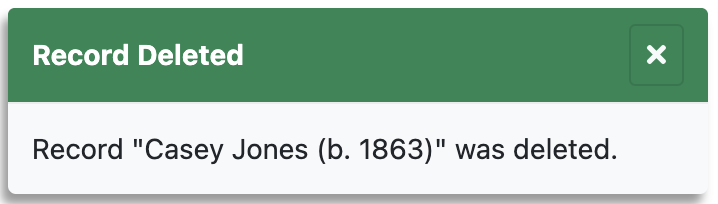
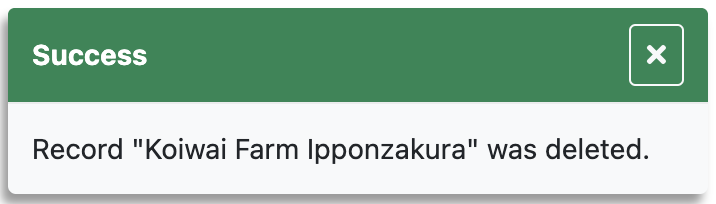
Wrote auth part of tutorial.

diff --git a/en/base.html b/en/base.html
@@ -135,7 +135,7 @@
 
   <script>
     const hhApiDomainArray = ['http://localhost:8081', 'https://hagenhaus.com:3002'];
-    const getHHApiDomain = () => { return hhApiDomainArray[1]; };
+    const getHHApiDomain = () => { return hhApiDomainArray[0]; };
   </script>
 
   <!-- <script src="http://localhost:8080/axios/axios.min.js"></script> -->
@@ -149,9 +149,9 @@
   <!-- <script src="/assets/scripts.js?v=47" type="module"></script> -->
   <script src="/assets/scripts.min.js?v=47" type="module"></script>
   
-  <!-- <script src="http://localhost:8080/hhdatalist/v0.0.2/hhdatalist-palettes.js?v=47"></script>
-  <script src="http://localhost:8080/hhdatalist/v0.0.2/hhdatalist-themes.js?v=47"></script>
-  <script src="http://localhost:8080/hhdatalist/v0.0.2/hhdatalist.js?v=47"></script> -->
+  <!-- <script src="http://localhost:8080/hhdatalist/v0.0.2/hhdatalist-palettes.js?v=47"></script> -->
+  <!-- <script src="http://localhost:8080/hhdatalist/v0.0.2/hhdatalist-themes.js?v=47"></script> -->
+  <!-- <script src="http://localhost:8080/hhdatalist/v0.0.2/hhdatalist.js?v=47"></script> -->
 
   <script src="https://hagenhaus.com/cdn/hhdatalist/v0.0.2/hhdatalist-palettes.js"></script>
   <script src="https://hagenhaus.com/cdn/hhdatalist/v0.0.2/hhdatalist-themes.js"></script>

diff --git a/assets/scripts.js b/assets/scripts.js
@@ -665,9 +665,10 @@ window.deleteAccountListener = (event) => {
 * Local Storage
 ************************************************************************************************/
 
+// null means cancel. '' means no auth token.
 window.getBearerToken = () => {
   let user = localStorage.getItem('user');
-  return user ? `Bearer ${JSON.parse(user).token}` : null;
+  return user ? `Bearer ${JSON.parse(user).token}` : '';
 };
 
 /************************************************************************************************
@@ -760,8 +761,7 @@ function getTitleAndMessage(error) {
 }
 
 window.reportError = (error) => { let tm = getTitleAndMessage(error); showToast('error', tm.title, tm.message); };
-window.reportInfo = (title, detail) => { showToast('info', title, detail); };
-window.reportWarning = (title, detail) => { showToast('warning', title, detail); };
+window.reportInfo = (code, title, detail) => { showToast(code === 0 ? 'info' : 'warning', title, detail); };
 
 /************************************************************************************************
 * on load

diff --git a/assets/dl-options-002.js b/assets/dl-options-002.js
@@ -21,9 +21,9 @@ class DLBaseOptions002 {
     this.id = id;
     this.info = reportInfo;
     this.methods = {
-      deleteRecord: () => { reportWarning('Cannot Delete Record', 'This feature is disabled for this instance.'); },
-      patchRecord: () => { reportWarning('Cannot Modify Record Field', 'This feature is disabled for this instance.'); },
-      postRecord: () => { reportWarning('Cannot Create Record', 'This feature is disabled for this instance.'); }
+      deleteRecord: () => { reportInfo(1, 'Warning', 'Record deletion is disabled for this instance.'); },
+      patchRecord: () => { reportInfo(1, 'Warning', 'Record modification is disabled for this instance.'); },
+      postRecord: () => { reportInfo(1, 'Warning', 'Record creation is disabled for this instance.'); }
     };
     this.number = {};
     this.parity = { get: { value: false }, post: { value: false } };

diff --git a/en/hhdatalist/v0.0.2/tutorial/index.md b/en/hhdatalist/v0.0.2/tutorial/index.md
@@ -406,7 +406,7 @@ Dodger Blue is the name of the default HHDataList theme. It is one of the standa
 
 1. Display the Theme tool again, notice the list of standard themes, and try some.
 
-1. Add the  `themeDefinition` option (Line 2) to hhdatalist.html and save.
+1. Add the `themeDefinition` option (Line 2) to hhdatalist.html and save.
 
     ``` js
     new HHDataList({
@@ -590,11 +590,13 @@ In addition to `manage` field definitions, HHDataList also supports `transform` 
 
 # Add a confirm function
 
-This section helps you add the [confirm](/en/hhdatalist/v0.0.2/options/confirm/) option to your datalist so users can confirm record deletions and other actions before committing.
+If a website provides a `confirm` function via the [confirm](/en/hhdatalist/v0.0.2/options/confirm/) option, HHDataList calls it before performing certain actions such as deleting a record. The signature of a `confirm` function is fixed, but the implementation is up to the website developer. Usually, `confirm` functions ask the user via a modal or dialog whether to proceed with the impending action. This section helps you add the [confirm](/en/hhdatalist/v0.0.2/options/confirm/) option to your datalist so users can confirm record deletions and other actions.
+
+> The `confirm` function used in the tutorial datalist is based on the JS [confirm](https://developer.mozilla.org/en-US/docs/Web/API/Window/confirm) function which displays a dialog. The datalists on hagenhaus.com use a `confirm` function based on Bootstrap modals.
 
 ### Steps
 
-1. Add `myConfirm` and the `confirm` option to hhdatalist.html and save.
+1. Add the `myConfirm` function and the `confirm` option to hhdatalist.html and save.
 
     ``` js nonum
     const myConfirm = (title, detail, yesLabel, yesCb) => { if (confirm(title)) { yesCb(); } };
@@ -604,11 +606,9 @@ This section helps you add the [confirm](/en/hhdatalist/v0.0.2/options/confirm/)
     });
     ```
 
-    `myConfirm` is an example function that works well as the `confirm` function in example applications. HHDataList instances on hagenhaus.com use a different `confirm` function. 
-
 1. Refresh your browser.
 
-1. Attempt to delete a record. HHDataList should display a [Window.confirm](https://developer.mozilla.org/en-US/docs/Web/API/Window/confirm) dialog.
+1. Attempt to delete a record. HHDataList displays a dialog. If you click OK, the tutorial application does not yet display an Unauthorized error message, an omission remedied in the next section.
 
 ### Example
 
@@ -625,11 +625,13 @@ This section helps you add the [confirm](/en/hhdatalist/v0.0.2/options/confirm/)
 
 # Add an error function
 
-This section helps you add the [error](/en/hhdatalist/v0.0.2/options/error/) option to your datalist so HHDataList can inform users about API errors.
+If a website provides an `error` function via the [error](/en/hhdatalist/v0.0.2/options/error/) option, HHDataList calls it to report API errors. The signature of an `error` function is fixed, but the implementation is up to the website developer. Usually, `error` functions report errors to users via modals or alerts. They may also log errors. This section helps you add the [error](/en/hhdatalist/v0.0.2/options/error/) option to your datalist.
+
+> The `error` function used in the tutorial datalist is based on the JS [alert](https://developer.mozilla.org/en-US/docs/Web/API/Window/alert) function which displays a dialog. The datalists on hagenhaus.com use an `error` function based on Bootstrap toasts.
 
 ### Steps
 
-1. Add `myError` and the `error` option to hhdatalist.html and save.
+1. Add the `myError` function and the `error` option to hhdatalist.html and save.
 
     ``` js nonum
     const myError = (error) => {
@@ -643,11 +645,9 @@ This section helps you add the [error](/en/hhdatalist/v0.0.2/options/error/) opt
     });
     ```
 
-    `myError` is an example function that works well as the `error` function in example applications. HHDataList instances on hagenhaus.com use a different `error` function. 
-
 1. Refresh your browser.
 
-1. Attempt again to delete a record, and confirm the deletion. HHDataList should display a [Window.alert](https://developer.mozilla.org/en-US/docs/Web/API/Window/alert) dialog.
+1. Attempt again to delete a record, and confirm the deletion. HHDataList displays an error message.
 
 ### Example
 
@@ -664,25 +664,29 @@ This section helps you add the [error](/en/hhdatalist/v0.0.2/options/error/) opt
 
 # Add an info function
 
-This section helps you add the [info](/en/hhdatalist/v0.0.2/options/info/) option to your datalist so HHDataList can inform users about completed actions.
+If a website provides an `info` function via the [info](/en/hhdatalist/v0.0.2/options/info/) option, HHDataList calls it to report successes and warnings related to certain non-API events. The signature of an `info` function is fixed, but the implementation is up to the website developer. Usually, `info` functions report successes and warnings to users via modals or alerts. This section helps you add the [info](/en/hhdatalist/v0.0.2/options/info/) option to your datalist.
+
+> The `info` function used in the tutorial datalist is based on the JS [alert](https://developer.mozilla.org/en-US/docs/Web/API/Window/alert) function which displays a dialog. The datalists on hagenhaus.com use an `info` function based on Bootstrap toasts.
 
 ### Steps
 
-1. Add `myInfo` and the `info` option to hhdatalist.html and save.
+1. Add the `myInfo` function and the `info` option to hhdatalist.html and save.
 
     ``` js nonum
-    const myInfo = (title, detail) => { alert(detail); };
+    const myInfo = (code, title, detail) => { alert(`${title}: ${detail}`); };
      
     new HHDataList({
       info: myInfo,
     });
     ```
 
-    `myInfo` is an example function that works well as the `info` function in example applications. HHDataList instances on hagenhaus.com use a different `info` function. 
+1. Notice the `code` argument. HHDataList uses `code` to pass `0` for success and `1` for warning. `info` functions can use `code` to make display decisions (e.g. green for success and orange for warning).
 
 1. Refresh your browser.
 
-1. Display the Uniformity tool in the Tools row of your datalist, and click it to enable it. HHDataList should display a [Window.alert](https://developer.mozilla.org/en-US/docs/Web/API/Window/alert) dialog. For more information about the concept of uniformity, see the [uniformity](/en/hhdatalist/v0.0.2/options/uniformity/) option.
+1. Display the Uniformity tool in the Tools row of your datalist.
+
+1. Click it to enable it. HHDataList displays a Success message.
 
 ### Example
 
@@ -705,7 +709,7 @@ HHDataList includes a mechanism for auto-populating the New Record form, a featu
 
 ### Steps
 
-1. Add `popValues` and the `populate` option to hhdatalist.html and save.
+1. Add the `popValues` map and the `populate` option to hhdatalist.html and save.
 
     ``` js nonum
     const popValues = new Map()
@@ -1122,13 +1126,30 @@ new HHDataList({
 
 This section helps you add the [auths](/en/hhdatalist/v0.0.2/options/auths/) option to your datalist so HHDataList can attempt to acquire a token.
 
-### Steps
+An `auth` function can return `null`, a zero-length string, or a non-zero-length string. Each causes HHDataList to react as follows:
 
-1. Add the `myGetToken` and `auths` option to hhdatalist.html and save.
+* A `null` return value causes HHDataList to abort the operation without any message.
+
+* A zero-length string causes HHDataList to abort the operation and to invoke the following function: 
 
     ``` js nonum
-    const myGetToken = () => { return `Bearer ${prompt('Enter auth token', '')}`; };
-    
+    info(1, 'Warning', 'Auth token does not exist.')
+    ```
+
+* A non-zero-length string causes HHDataList to include the string in an Authorization header, and to proceed with the operation.
+
+> The `auth` function used in the tutorial datalist is based on the JS [prompt](https://developer.mozilla.org/en-US/docs/Web/API/Window/prompt) function which displays a dialog. The datalists on hagenhaus.com use an `auth` function that accesses browser Local Storage.
+
+### Steps
+
+1. Add the `myGetToken` function and the `auths` option to hhdatalist.html and save.
+
+    ``` js nonum
+    const myGetToken = () => {
+      let val = prompt('Enter auth token', '');
+      return val ? `Bearer ${val}` : val;
+    };
+     
     new HHDataList({
       auths: {
         deleteRecord: myGetToken,
@@ -1138,11 +1159,27 @@ This section helps you add the [auths](/en/hhdatalist/v0.0.2/options/auths/) opt
     });
     ```
 
+    Regarding `myGetToken`, if the user clicks Cancel, `val` is `null`, so HHDataList quietly aborts the operation. If the user clicks `OK` with no input, `val` is `''`, so HHDataList aborts the operation and calls `info` with a warning. If the user types input and clicks `OK`, `val` is a non-zero-length string, so HHDataList builds an Authorization header and proceeds with the operation. 
+
 1. Refresh your browser.
 
-1. Click the Trash icon of a record.
+1. Click the Trash icon of a record. This dialog appears:
 
-1. Confirm that you want to delete the record. Notice the prompt asking for a token. HHDataList instances on this page supply HHDataList with a different `myGetToken` function, one that (if the user is logged in) retrieves the token from browser Local Store rather than asking for a token via a prompt. 
+    <p><img src="auth-dialog.png" class="img-fluid d-block" width=360 loading="lazy"></p>
+
+1. Click Cancel. Nothing appears.
+
+1. Click a Trash icon, and then click OK. This dialog appears:
+
+    <p><img src="no-auth-token.png" class="img-fluid d-block" width=360 loading="lazy"></p>
+
+1. Click a Trash icon, type input, and then click OK. This dialog appears:
+
+    <p><img src="confirm-delete-record.png" class="img-fluid d-block" width=360 loading="lazy"></p>
+
+1. Click OK. This dialog appears:
+
+    <p><img src="unauthorized.png" class="img-fluid d-block" width=360 loading="lazy"></p>
 
 ### Example
 
@@ -1202,7 +1239,7 @@ This section helps you add the [methods](/en/hhdatalist/v0.0.2/options/methods/)
   new HHDataList(new MethodsOptions('methods-datalist'));
 </script>
 
-# Accumulated tutorial code
+# Complete tutorial code
 
 After completing the sections above, the code in your project file should resemble the following:
 

diff --git a/en/hhdatalist/v0.0.2/options/info/index.md b/en/hhdatalist/v0.0.2/options/info/index.md
@@ -2,17 +2,16 @@
 
 <table class="options-table"><tr><th>Optional, but recommended</th></tr></table>
 
-The `info` option specifies a function for HHDataList to call when reporting that a record was created/deleted or a record field was updated.
+The `info` option specifies a function for HHDataList to call when reporting successes and warnings.
 
 # Example
 
-
-HHDataList passes two action-specific arguments to the `info` function: `title`, and `message`.
+HHDataList passes three action-specific arguments to the `info` function: `code`, `title`, and `message`. HHDataList uses `code` to pass `0` for success and `1` for warning. `info` functions can use `code` to make display decisions (e.g. green for success and orange for warning).
 
 ``` js nonum
 // developer-defined
-const reportInfo = (title, message) => {
-  showToast('info', title, message);
+const reportInfo = (code, title, message) => {
+  showToast(code === 0 ? 'info' : 'warning', title, detail);
 };
  
 new HHDataList({
@@ -24,8 +23,9 @@ For example, after deleting a record for a baseball player named *Casey Jones*, 
 
 |Parameter|Argument|
 |-|-|
-|*title*|"Delete Record?"|
-|*message*|\`Record "Casey Jones (b. 1863)" was deleted.\`|
+|*code*|0|
+|*title*|Success|
+|*message*|Record "Koiwai Farm Ipponzakura" was deleted.|
 
 It is up to the website to decide how to display the information. Below is an example:
 

diff --git a/en/hhdatalist/v0.0.2/options/confirm/index.md b/en/hhdatalist/v0.0.2/options/confirm/index.md
@@ -27,10 +27,10 @@ For example, before deleting a record for a baseball player named *Casey Jones*,
 
 |Parameter|Argument|
 |-|-|
-|*title*|"Delete Record?"|
-|*detail*|"Casey Jones (b. 1863)"|
-|*yesLabel*|"Delete"|
-|*yesCb*|HHDataList internal `DELETE` function|
+|title|Delete Record?|
+|detail|Casey Jones (b. 1863)|
+|yesLabel|Delete|
+|yesCb|HHDataList internal `DELETE` function|
 
 The job of the *confirm* function is to present the *yesLabel* to the user, obtain a response, and, if the response is affirmative, call *yesCb* with no arguments. For example, a website might display a modal:
 
@@ -50,6 +50,3 @@ To see this option in action, try deleting one of the records below:
   new HHDataList(options);
 </script>
 
-When a user confirms the *Delete* action, this datalist instance does, indeed, call *deleteRecord*, but (for this instance) HHDataList delete-record functionality has been replaced (via the [methods](/en/hhdatalist/v0.0.2/options/methods/) option) with a function that displays the following:
-
-<p><img src="warning-disabled.png" class="img-fluid d-block" width=320 loading="lazy"></p>
